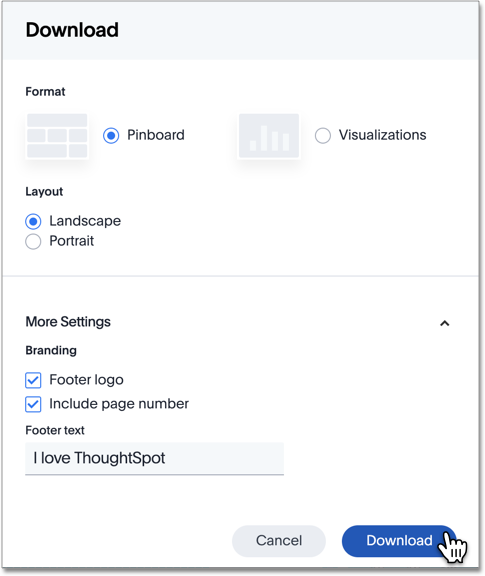
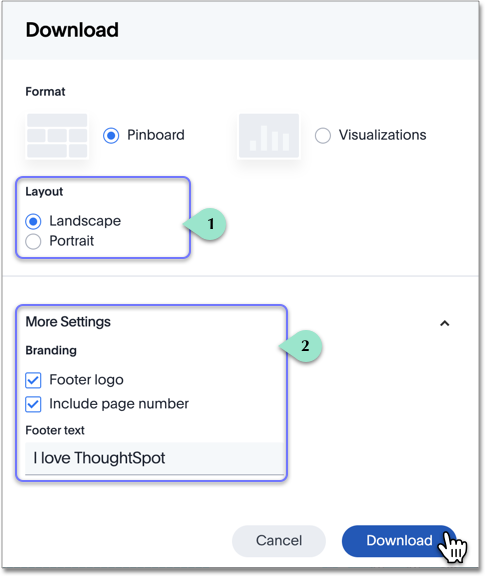
SCAL-49392 Document additions to Pinboard download in 5.3.1 release

Changed region(s): [[0.0, 0.5, 0.6804, 0.8438], [0.0, 0.2812, 0.4948, 0.4688]]

diff --git a/_end-user/pinboards/download-pinboard-pdf.md b/_end-user/pinboards/download-pinboard-pdf.md
@@ -1,36 +1,72 @@
 ---
 title: [Download a pinboard as PDF]
-last_updated: 06/30/2019
-summary: "In ThoughtSpot, you can download the entire pinboard in PDF format."
+last_updated: 10/07/2019
+summary: "In ThoughtSpot, you can download the entire pinboard in PDF format, so you can share it with people inside and outside your organization. You have options for adding branding, composing the report of the entire Pinboard or only some of its Visualizations, truncating tables, and many others."
 sidebar: mydoc_sidebar
 permalink: /:collection/:path.html
 ---
-You can download a pinboard in PDF format, without downloading each visualization separately.
-
-To download a pinboard in PDF format, follow these steps:
+You can download a Pinboard in PDF format, without downloading each visualization separately. Follow these steps:
 
 1. Click **Pinboards** on the top navigation bar.
 
      ![]({{ site.baseurl }}/images/click-pinboards.png "Pinboards")
 
-2. Select a pinboard from the list of pinboards by clicking on its title.
+2. Select a Pinboard from the list of Pinboards by clicking on its title.
 
-3. In the open pinboard, click the **More Options** menu ![more options menu icon]({{ site.baseurl }}/images/icon-ellipses.png){: .inline} (ellipses icon), and select **Download as PDF**.
+3. In the open Pinboard, click the **More Options** menu ![more options menu icon]({{ site.baseurl }}/images/icon-ellipses.png){: .inline} (ellipses icon), and select **Download as PDF**.
 
-     ![]({{ site.baseurl }}/images/pinboard-download-pdf.png "Download a pinboard as PDF")
+     ![Download Pinboard as PDF]({{ site.baseurl }}/images/pinboard-download-pdf.png "Download a Pinboard as PDF")
 
-4. In the **Export pinboard** window, you have two main output options.
-  * Select **Pinboard** to generate a PDF that combines several visual answers on the same page, just like they appear on the pinboard.
-  * Select  **Visualizations** to print each visualization on its own page of the PDF file.
+4. In the **Download** window modal, you have two main _Format_ output options:
+  * Select **[Pinboard](#pdf-pinboard)** to generate a PDF that combines several visual answers on the same page, just like they appear on the Pinboard.
+  * Select  **[Visualizations](#pdf-visualizations)** to print each visualization on its own page of the PDF file.
 
-  5. Select either the **Landscape** or **Portrait** page orientation.
+   ![Choose PDF format: Pinboard or Visualizations]({{ site.baseurl }}/images/pinboard-formats.png "Choose PDF format: Pinboard or Visualizations")
 
-  6. Click **Export**.
+{: id="pdf-pinboard"}
+## Download PDG as Pinboard
 
-     ![]({{ site.baseurl }}/images/pinboard-export.png "Export a pinboard as PDF, either combined, or one visualization to a page")
+The Pinboard mode produces a PDF file that looks very similar to the Pinboard inside ThoughtSpot. The highlights and insights appear at the top, and the rest of the Pinboard is on a rectangular grid, with natural page breaks.
 
-  7. After the download completes, examine your PDF.
+Follow these steps to specify additional options:
 
-  Notice that the PDF produced in **Pinboard** mode combines the visuals on the page in the same manner as the original pinboard. Contrast this with the PDF produced in **Visualizations** mode: this PDF combines the small adjacent indicator and KPI visuals at the top, and all other visuals and tables appear on their own page.
+1. Under **Layout**, select either the _Landscape_ or _Portrait_ page orientation.
 
-  ![]({{ site.baseurl }}/images/pinboard-pdfs.png "Pinboard PDFs")
+2. Click the **More Settings** option.
+
+   Under **Branding**, specify if you want to add a _Footer logo_, _Include page number_, or add _Footer text_.
+
+3. Click **Download**.
+
+![PDF export as Pinboard]({{ site.baseurl }}/images/pinboard-export.png "Export a Pinboard as PDF, either combined, or one visualization to a page")
+
+{: id="pdf-visualizations"}
+## Download PDF as Visualizations
+
+When you select **Visualizations**, you now have a choice to print all, or some, of the visualizations in the Pinboard. The highlights and insights appear at the top, and the rest of the visualizations get their own page.
+
+Follow these steps to specify additional options:
+
+1. Under **Layout**, select either the _Landscape_ or _Portrait_ page orientation.
+
+2. Click the **More Settings** option.
+
+    Under **Content**, specify if you want the table visuals to end after filling the whole page by selecting the _Truncate Tables_ option.
+
+3. Add **Branding** details through the _Footer logo_, _Include page number_, or _Footer text_ options.
+
+4. In the list of **Visualizations**, select the visualizations you want in the PDF. Deselect the visualization you don't want.
+
+8. Click **Download**.
+
+![PDF export as Visualizations]({{ site.baseurl }}/images/pinboard-viz-export.png "Export a Pinboard to PDF as Visualizations")
+
+
+{: id="pdf-examine"}
+## Examine the PDF
+
+After the download completes, examine your PDF.
+
+Notice that the PDF produced in **Pinboard** mode combines the visuals on the page in the same manner as the original Pinboard. Contrast this with the PDF produced in **Visualizations** mode: this PDF combines the small adjacent indicator and KPI visuals at the top, and all other visuals and tables appear on their own page.
+
+![Comparing Pinboard PDFs]({{ site.baseurl }}/images/pinboard-pdfs.png "Comparing Pinboard PDFs")
